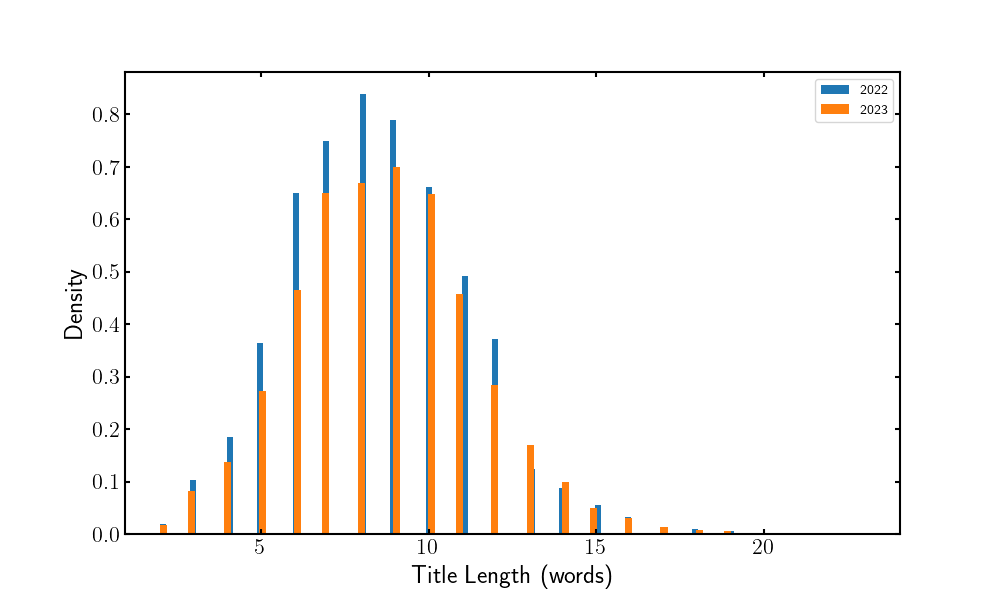
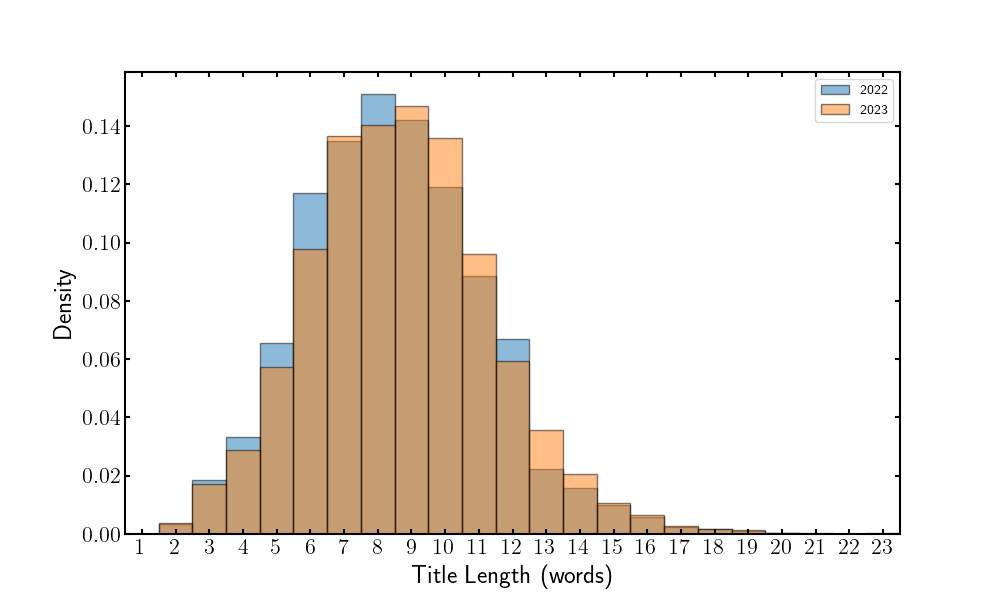
updating title length hist

diff --git a/generate_figures.py b/generate_figures.py
@@ -96,14 +96,25 @@ plt.close()
 
 
 title_lengths_2022 = [len(title.split()) for title in titles_2022]
-title_lengths2023 = [len(neurips_2023_data[key]["title"].split()) for key in keys]
+title_lengths_2023 = [len(neurips_2023_data[key]["title"].split()) for key in keys]
+
+# Find the maximum title length in both years
+max_length = max(max(title_lengths_2022), max(title_lengths_2023))
+
+# Create bins from 0.5 to max_length + 0.5 to center bins on integers
+bins = [i + 0.5 for i in range(max_length + 1)]
 
 plt.figure(figsize=(10, 6))
-plt.hist(title_lengths_2022, bins=100, density=True, label="2022");
-plt.hist(title_lengths2023, bins=100, density=True, label="2023");
-plt.xlabel("Title Length (words)");
-plt.ylabel("Density");
-plt.legend();
+
+# Plot histograms with density and centered bars
+plt.hist(title_lengths_2022, bins=bins, edgecolor='black', alpha=0.5, density=True, label="2022")
+plt.hist(title_lengths_2023, bins=bins, edgecolor='black', alpha=0.5, density=True, label="2023")
+
+plt.xlabel("Title Length (words)")
+plt.ylabel("Density")
+plt.xticks(range(1, max_length + 1))  # Set x-ticks to be integers
+plt.xlim(0.5, max_length + 0.5)  # Set x-axis limits to align with bins
+plt.legend()
 plt.savefig("images/title_length_histogram_2022_2023.png");
 plt.cla()
 plt.close()
